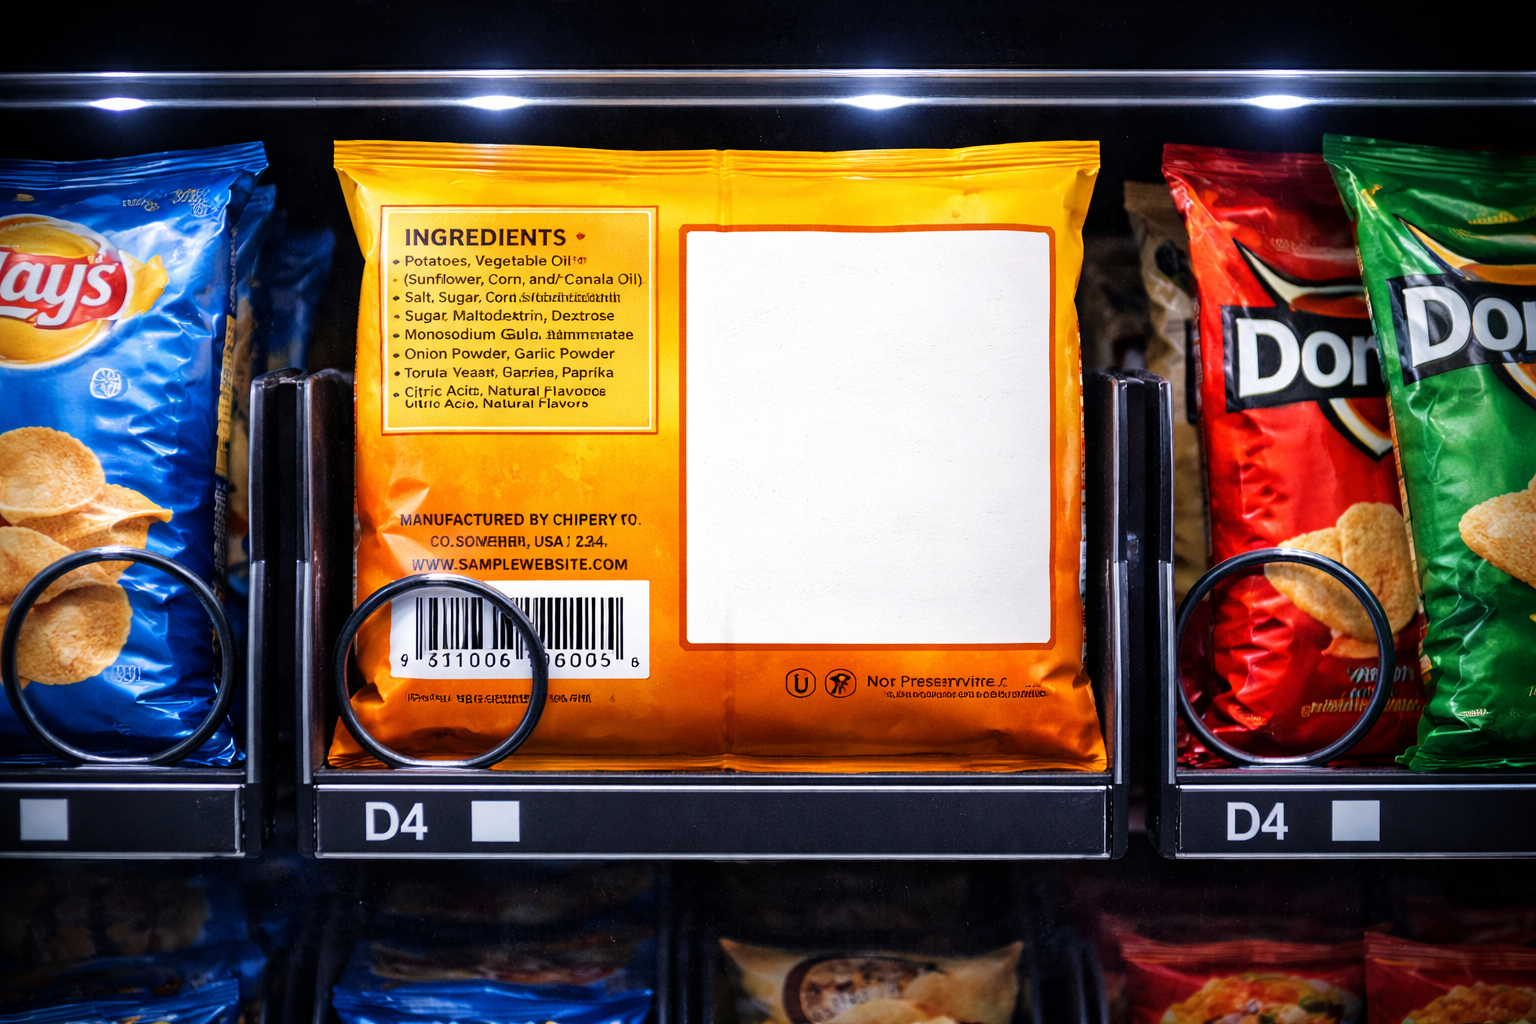
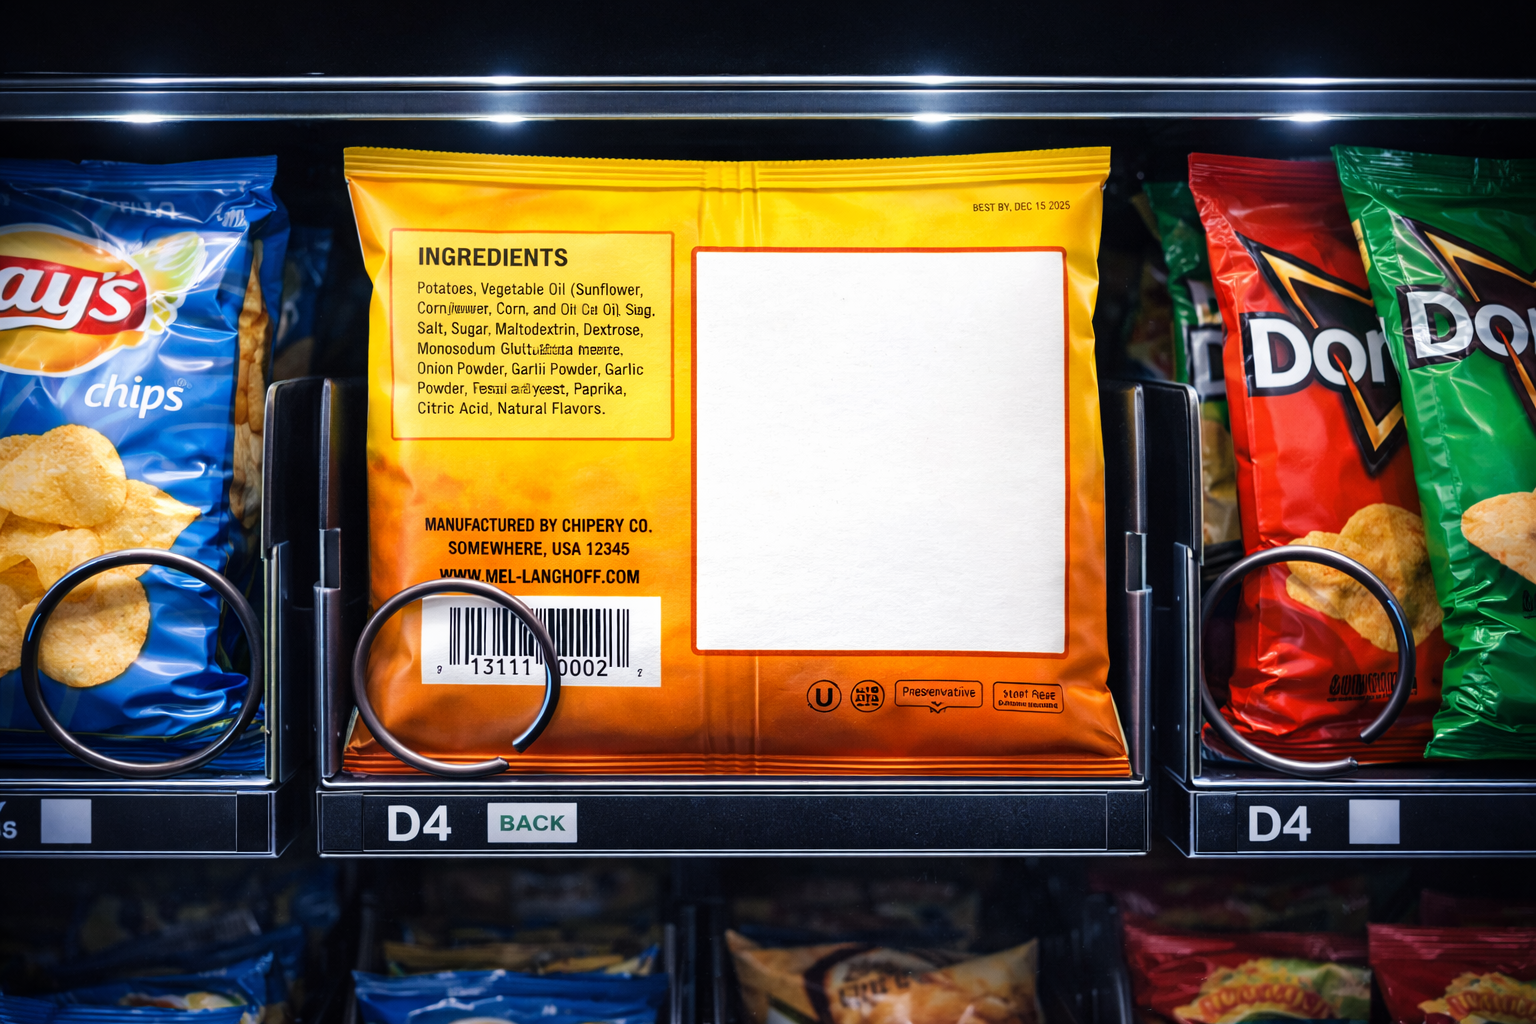
backup

diff --git a/app/assets/stylesheets/application.scss b/app/assets/stylesheets/application.scss
@@ -4,22 +4,21 @@
  */
 
 /* =========================
-   BASE RESET (COMBINED)
+   BASE RESET
 ========================= */
 html, body {
   margin: 0;
   background: black;
-  font-family: Georgia, serif;
+  font-family: "Inter", sans-serif;
 }
 
-/* ONLY HOME PAGE */
-body.full-screen {
-  height: 100vh;
-;
-}
 /* =========================
    FULLSCREEN (HOME ONLY)
 ========================= */
+body.full-screen {
+  height: 100vh;
+}
+
 .full-screen {
   position: fixed;
   inset: 0;
@@ -31,16 +30,16 @@ body.full-screen {
 }
 
 /* =========================
-   VENDING MACHINE (WORKING)
+   VENDING MACHINE
 ========================= */
 .machine-wrapper {
   position: relative;
 }
 
 .machine-img {
-  max-width: 100vw;
-  max-height: 100vh;
-  display: block;
+  width: 100%;
+  height: 100%;
+  object-fit: contain;
 }
 
 .machine-ui {
@@ -48,30 +47,45 @@ body.full-screen {
   inset: 0;
 }
 
-/* HITBOXES */
-.machine-btn {
+/* =========================
+   HITBOX SYSTEM (FIXED 🔥)
+========================= */
+.machine-btn,
+.chip-back-btn {
   position: absolute;
-  width: 6%;
-  height: 12%;
-  display: block;
-  cursor: pointer;
 
+  /* 🔥 CENTER ANCHOR SYSTEM */
+  transform: translate(-50%, -50%);
+
+  cursor: pointer;
+  z-index: 1000;
+
+  /* DEBUG */
   background: rgba(255, 0, 0, 0.35);
   border: 2px solid red;
-
-  z-index: 1000;
 }
 
-/* BUTTON POSITIONS (RESTORED) */
-.machine-btn[data-key="home"]     { top: 31%; left: 30.5%; }
-.machine-btn[data-key="about"]    { top: 31%; left: 38%; }
-.machine-btn[data-key="resume"]   { top: 31%; left: 53.5%; }
-.machine-btn[data-key="projects"] { top: 31%; left: 61.5%; }
+/* STANDARD BUTTON SIZE */
+.machine-btn {
+  width: 6%;
+  height: 18%;
+}
 
-.machine-btn[data-key="contact"]  { top: 50%; left: 30.5%; }
-.machine-btn[data-key="github"]   { top: 50%; left: 38.5%; }
-.machine-btn[data-key="linkedin"] { top: 50%; left: 53.5%; }
-.machine-btn[data-key="topshelf"] { top: 50%; left: 61.5%; }
+/* =========================
+   BUTTON POSITIONS (NOW TRUE CENTER)
+========================= */
+
+/* TOP ROW */
+.machine-btn[data-key="home"]     { top: 34%; left: 33.5%; }
+.machine-btn[data-key="about"]    { top: 34%; left: 41%; }
+.machine-btn[data-key="resume"]   { top: 34%; left: 56.5%; }
+.machine-btn[data-key="projects"] { top: 34%; left: 63.5%; }
+
+/* BOTTOM ROW */
+.machine-btn[data-key="contact"]  { top: 57%; left: 33.5%; }
+.machine-btn[data-key="github"]   { top: 57%; left: 41%; }
+.machine-btn[data-key="linkedin"] { top: 57%; left: 56.5%; }
+.machine-btn[data-key="topshelf"] { top: 57%; left: 63.5%; }
 
 /* =========================
    BOTTLE LAYER
@@ -90,16 +104,13 @@ body.full-screen {
 }
 
 /* =========================
-   NORMAL PAGES (FIXED)
+   NORMAL PAGES
 ========================= */
-
-/* 🔥 KEY FIX: allow scrolling on non-home pages */
 body:not(.full-screen) {
   display: block;
   overflow: auto;
 }
 
-/* CONTENT LAYOUT */
 .main-container {
   min-height: 100vh;
   padding: 80px 20px;
@@ -112,18 +123,18 @@ body:not(.full-screen) {
 }
 
 /* =========================
-   CHIP BAG FULLSCREEN (FIXED)
+   CHIP BAG
 ========================= */
-
 .chip-wrapper {
-  position: fixed;   /* 🔥 KEY CHANGE */
-  inset: 0;          /* fills entire screen */
+  position: relative;
+  width: 100vw;
+  height: 100vh;
 }
 
 .chip-img {
-  width: 100vw;
-  height: 100vh;
-  object-fit: cover;   /* 🔥 THIS is what you want */
+  width: 100%;
+  height: 100%;
+  object-fit: contain;  /* 🔥 THIS */
   display: block;
 }
 
@@ -131,34 +142,50 @@ body:not(.full-screen) {
 .chip-textbox {
   position: absolute;
 
-  width: 25%;
-  height: 40%;
-
-  padding: 10px;
-
-  overflow: hidden;
-
-  overflow-y: auto;
-
-  font-size: clamp(12px, 1.1vw, 16px);
-  line-height: 1.3;
-
+  /* 🔥 CENTER-BASED SYSTEM */
   top: 42%;
   left: 57%;
   transform: translate(-50%, -50%);
+
+  width: 25%;
+  height: 40%;
+
+  padding: 12px;
+
+  overflow-y: auto;
+
+  font-size: 15px;
+  line-height: 1.5;
 }
+
+.chip-textbox p {
+  margin-bottom: 8px;
+}
+
+/* =========================
+   BACK BUTTON (NOW DYNAMIC 🔥)
+========================= */
+.chip-back-btn {
+  top: 88%;
+  left: 31%;
+
+  width: 7%;
+  height: 10%;
+}
+
 /* =========================
    TYPOGRAPHY
 ========================= */
-.page-title {
-  text-align: center;
-  margin-bottom: 25px;
-  font-size: 32px;
+.page-title,
+h1,
+h2 {
+  font-family: "DM Serif Display", serif;
+  font-weight: normal;
 }
 
 h2 {
   margin-bottom: 10px;
-  font-size: 22px;
+  font-size: 18px;
 }
 
 /* =========================
@@ -177,3 +204,18 @@ input, textarea {
   cursor: pointer;
 }
 
+/* =========================
+   GRID DEBUG (KEEP 🔥)
+========================= */
+.chip-wrapper::after {
+  content: "";
+  position: absolute;
+  inset: 0;
+
+  background-image: 
+    linear-gradient(to right, rgba(255,0,0,0.2) 1px, transparent 1px),
+    linear-gradient(to bottom, rgba(255,0,0,0.2) 1px, transparent 1px);
+
+  background-size: 5% 5%;
+  pointer-events: none;
+}
